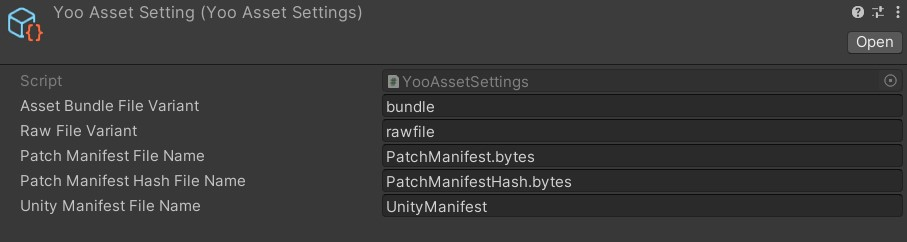
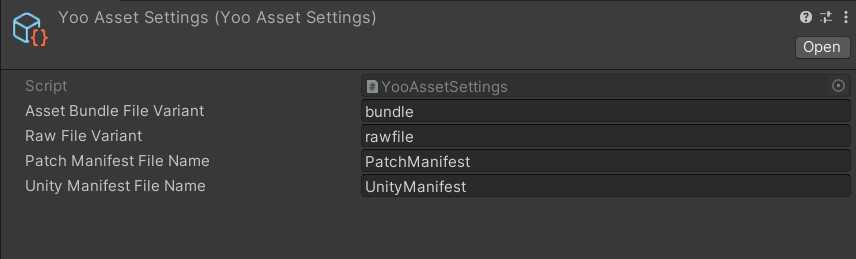
Update document

diff --git a/Docs/CodeTutorial2.md b/Docs/CodeTutorial2.md
@@ -1,18 +1,39 @@
 # 资源更新
 
+**获取资源版本**
+
+对于联机运行模式，在更新补丁清单之前，需要获取一个资源版本号。
+
+该资源版本号，可以通过YooAssets提供的接口来更新，也可以通过HTTP访问游戏服务器来获取。
+
+````c#
+private IEnumerator UpdateStaticVersion()
+{
+    UpdateStaticVersionOperation operation = YooAssets.UpdateStaticVersionAsync();
+    yield return operation;
+
+    if (operation.Status == EOperationStatus.Succeed)
+    {
+        //更新成功
+        int resourceVersion = operation.ResourceVersion;
+        Debug.Log($"Update resource Version : {resourceVersion}");
+    }
+    else
+    {
+        //更新失败
+        Debug.LogError(operation.Error);
+    }
+}
+````
+
 **更新补丁清单**
 
-对于联机运行模式，在初始化资源系统之后，需要立刻更新资源清单。
-
-**注意**：在初始化资源系统的时候，可以选择是否忽略资源版本号，这会影响到我们的更新步骤。
-
-- 没有忽略资源版本号：在更新之前先获取更新的资源版本号，一般通过HTTP访问游戏服务器来获取。
-- 忽略资源版本号：在更新的时候，资源版本号可以设置为0。
+对于联机运行模式，在获取到资源版本号之后，就可以更新资源清单了。
 
 ````c#
 private IEnumerator UpdatePatchManifest()
 {
-    UpdateManifestOperation operation = YooAssets.UpdateManifestAsync(updateResourceVersion);
+    UpdateManifestOperation operation = YooAssets.UpdateManifestAsync(resourceVersion);
     yield return operation;
 
     if (operation.Status == EOperationStatus.Succeed)

diff --git a/Docs/CodeTutorial1.md b/Docs/CodeTutorial1.md
@@ -46,7 +46,6 @@ private IEnumerator InitializeYooAsset()
 - LocationRoot : 资源定位的根路径，所有通过代码加载的资源文件都需要放在资源定位的根路径下。
 - DecryptionServices : 如果资源包在构建的时候有加密，需要提供实现IDecryptionServices接口的实例类。
 - ClearCacheWhenDirty : 安装包在覆盖安装的时候，是否清空沙盒缓存文件夹。
-- IgnoreResourceVersion : 是否忽略资源版本号，请参考进阶教程。
 - DefaultHostServer : 默认的资源服务器IP地址。
 - FallbackHostServer : 备用的资源服务器IP地址。
 
@@ -57,7 +56,6 @@ private IEnumerator InitializeYooAsset()
     createParameters.LocationRoot = "Assets/GameRes";
     createParameters.DecryptionServices = null;
     createParameters.ClearCacheWhenDirty = false;
-    createParameters.IgnoreResourceVersion = false;
     createParameters.DefaultHostServer = "http://127.0.0.1/CDN1/Android";
     createParameters.FallbackHostServer = "http://127.0.0.1/CDN2/Android";
     yield return YooAssets.InitializeAsync(createParameters);

diff --git a/Docs/AssetDeploy.md b/Docs/AssetDeploy.md
@@ -4,17 +4,9 @@
 
 如果是本地测试，可以在本地创建一个WEB服务器，然后将补丁包拷贝到WEB服务器下。
 
-**按照补丁版本目录部署**
-
-````
-CDN
-└─android
-    ├─100
-    ├─101
-    └─102
-````
-
 **按照游戏版本目录部署**
+
+在业务开发过程中，每个游戏版本实际都会创建一个SVN分支，该分支工程内每次构建的补丁包上传到对应的CDN目录下即可。
 
 ````
 CDN

diff --git a/Docs/Settings.md b/Docs/Settings.md
@@ -10,7 +10,6 @@
 
 - **Asset Bundle File Variant** : AssetBundle资源包后缀名
 - **Raw File Variant** : 原生资源包后缀名
-- **Patch Manifest File Name** : 补丁清单文件名
-- **Patch Manifest Hash File Name** : 补丁清单哈希文件名
+- **Patch Manifest File Name** : 补丁清单文件名称
 - **Unity Manifest File Name** : Unity构建的清单名称
 
